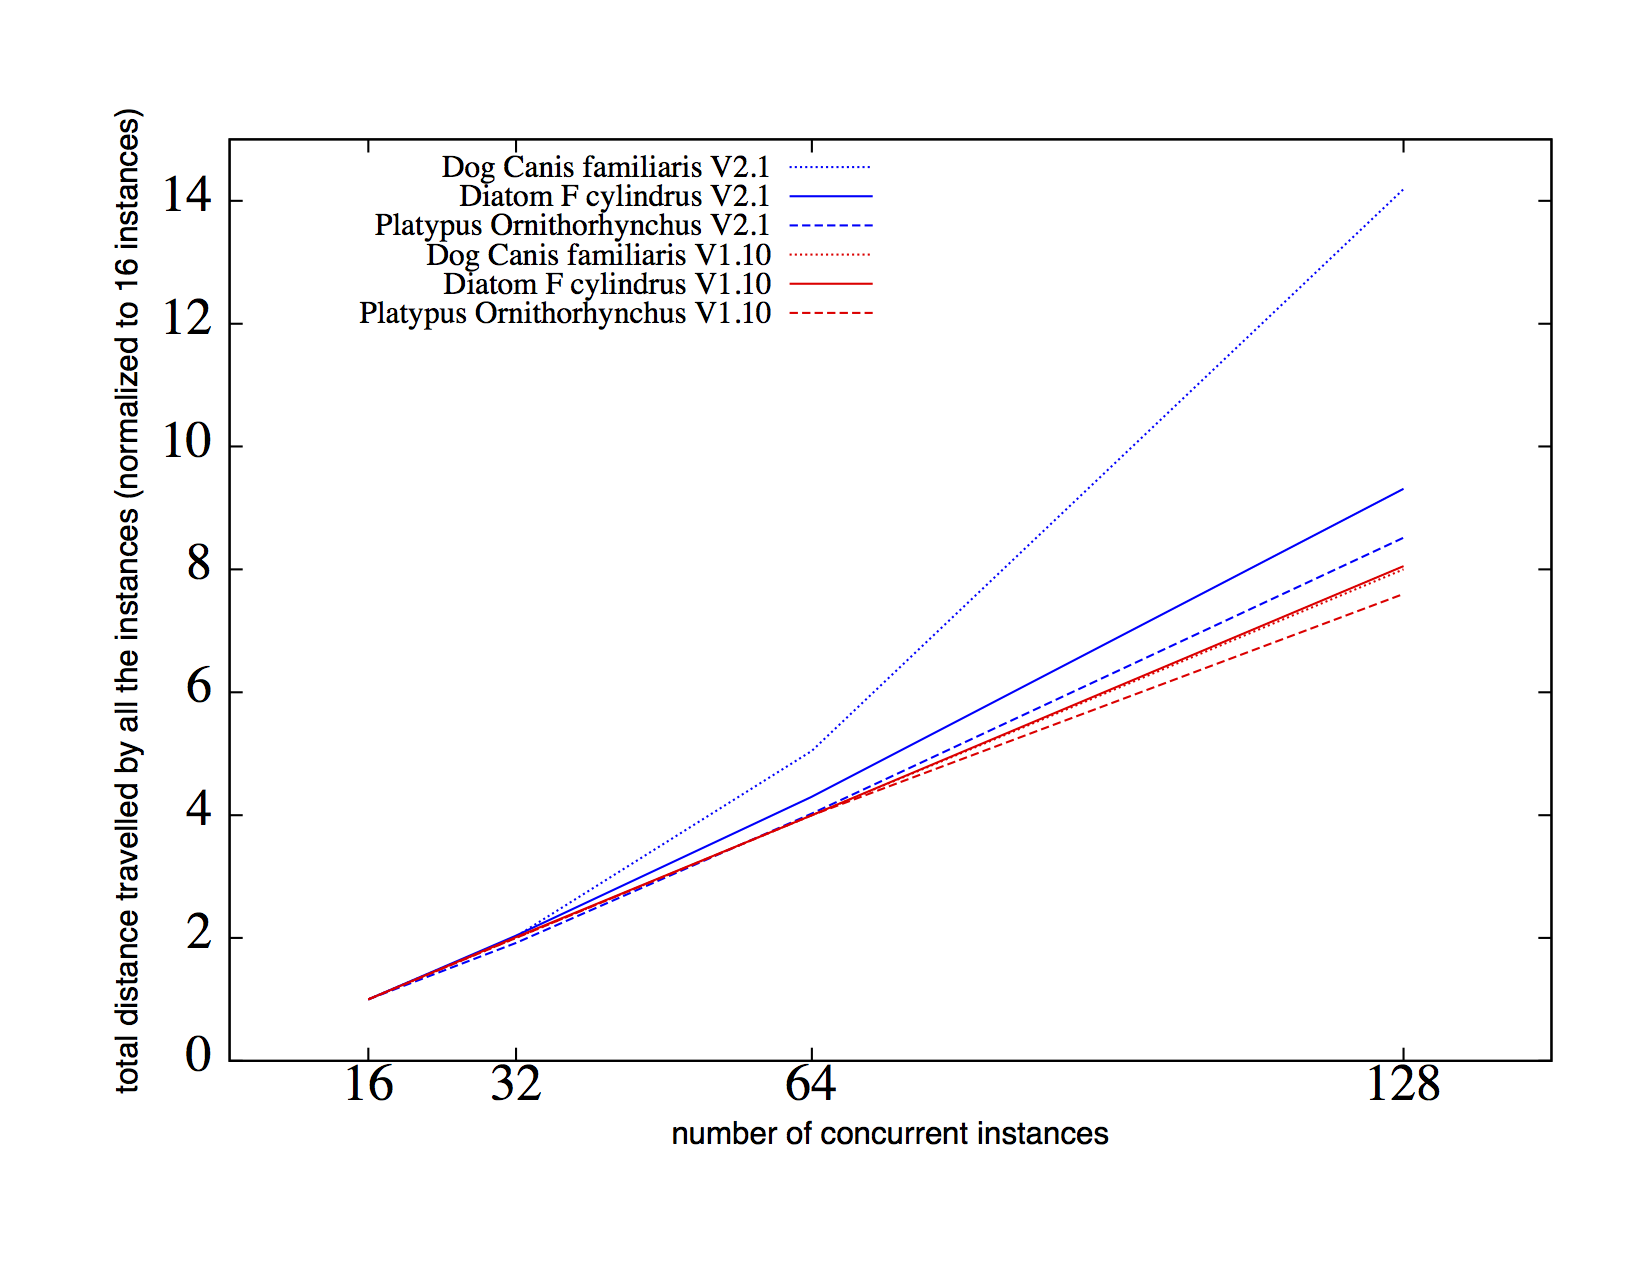
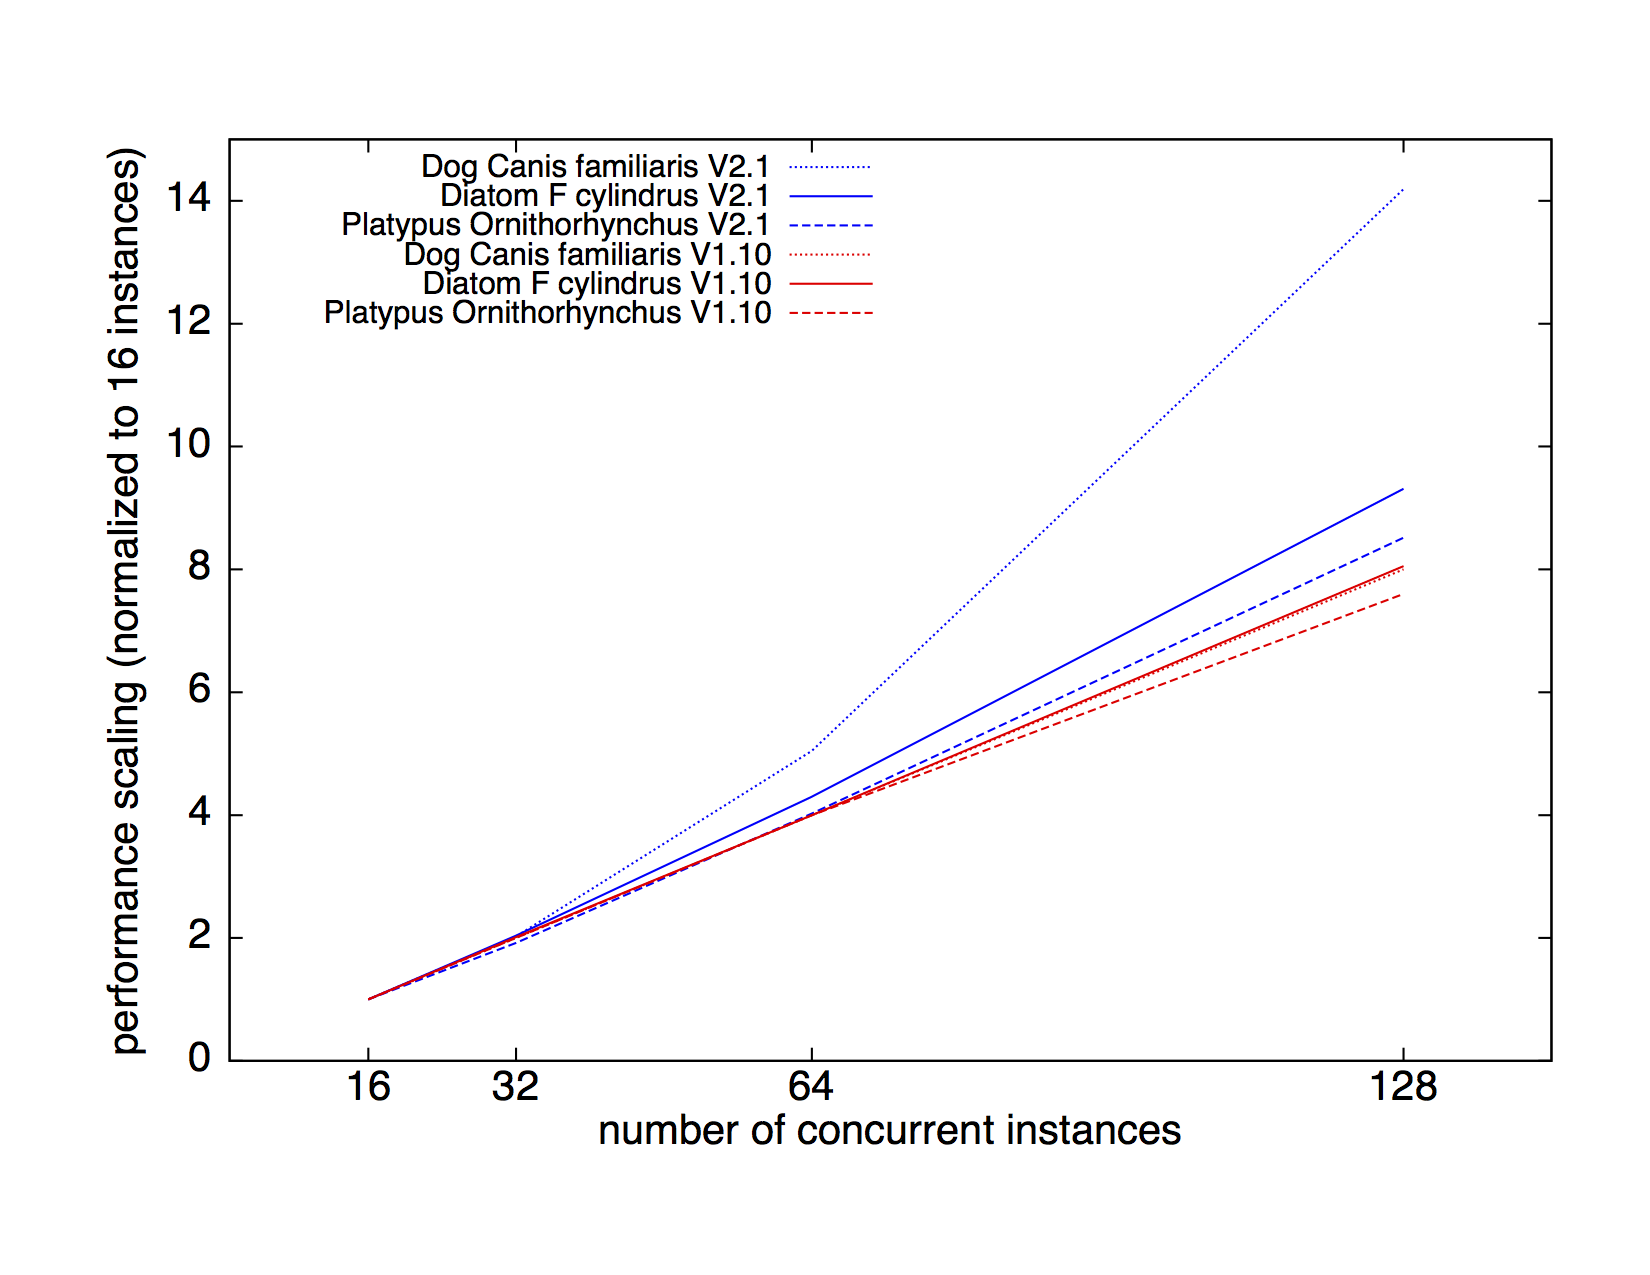
edits to figures

diff --git a/xsede13.tex b/xsede13.tex
@@ -466,7 +466,7 @@ We took three different organisms based on the size of their genome. We selected
 \begin{figure*} %[h!] % t=top, b=bottom, h=here, p=separate page
 \centering
 \includegraphics[width=0.78\textwidth]{figures/bj-scaling.png}
-\caption{After running 16, 32, 64 and 128 instances of mlRho concurrently using BigJob on Ranger and Stampede with versions 1.10 and 2.1, respectively, we see that amount of work done increases nearly linearly with the number instances of mlRho. The Y-Axis shows the total distance travelled by all the instances put together and normalized to 16 instances. The X-Axis shows the number of concurrent mlRho processes running. }
+\caption{After running 16, 32, 64 and 128 instances of mlRho concurrently using BigJob on Ranger and Stampede with versions 1.10 and 2.1, respectively, we see that amount of work done increases nearly linearly with the number instances of mlRho. The y-axis shows the total distance travelled by all the instances put together and normalized to 16 instances. The x-axis shows the number of concurrent mlRho processes running. }
 \label{fig:stampede-bench}
 \end{figure*}
 
@@ -483,12 +483,12 @@ We took three different organisms based on the size of their genome. We selected
 
 \begin{table*}
 \centering
-\begin{tabular}{|p{2.8cm}|     c| p{1.5cm} |c  |  c | 	  l  | l  | l  | l  |  } \hline
-Organism Type		& Size of profile in GB & \multicolumn{2}{|c|}{Distance travelled /min} &\multicolumn{2}{|c|}{SUs/distance}  \\ \hline
-	&   & V 1.10 & V 2.1 & V 1.10 & V 2.1  \\ \hline
-{\it F. cylindrus}  & 0.72 & 508 & 19.42 & 394 & new  \\ \hline
-{\it P. ornithorhynchus}  & 11 & 508 & 414 & 394 & new  \\ \hline
-{\it C. familiaris}  & 31 & 31 & 414 & 394 & new  \\
+\begin{tabular}{|c|  c   | p{1.3cm} |c  |     } \hline
+Organism Type		& Size of profile in GB & \multicolumn{2}{|c|}{Distance travelled /sec}  \\ \hline
+	&   & V 1.10 & V 2.1 \\ \hline
+{\it F. cylindrus}  & 0.72 & 0.0034 & 0.323 \\ \hline
+{\it P. ornithorhynchus}  & 11 & 0.00023 & 0.020 \\ \hline
+{\it C. familiaris}  & 31 & 0.0000810 & 0.005 \\
 \hline
 %Intel & 405 & 388 & 364 & 346\\
 %\hline
@@ -496,7 +496,7 @@ Organism Type		& Size of profile in GB & \multicolumn{2}{|c|}{Distance travelled
 %\hline
 
 \end{tabular}
-\caption{The table shoes mlRho runtimes on different machines with different compilers. The runtimes are in seconds. Compiling with the Intel compiler gave us a 10\% speedup compared to GNU/PGI compilers on Mason and Ranger. Future work could include building GSL with Intel compilers.   } 
+\caption{The table lists three organisms which were chosen to represent profiles of different size. The second column shows the size of the profile in gigabytes. The third column shows the distance travelled per second by V1.10 and V2.1 on one core on Ranger and Stampede, respectively. The rate of distance is a function of the size of the genome.  } 
 \label{table:cache_comp}
 \end{table*}
 
@@ -668,9 +668,19 @@ speedup of \ty{mlRho} while maintaining its minimal memory requirement.
 \begin{figure} %[h!] % t=top, b=bottom, h=here, p=separate page
 \centering
 \includegraphics[width=0.48\textwidth]{figures/mlrho-benchmarks.png}
-\caption{The graph show the different versions of mlRho benchmarked on a single core on Stampede. The Y-Axis shows the time steps per hour in logarithmic scale. Compared to version 1.10,  2.1 is nearly 50 times faster. }
+\caption{The graph shows the different versions of mlRho benchmarked on a single core on Stampede. The y-axis shows the time steps per hour in logarithmic scale. Compared to version 1.10,  2.1 is nearly 50 times faster. }
 \label{fig:stampede-bench}
 \end{figure}
+
+
+\begin{figure} %[h!] % t=top, b=bottom, h=here, p=separate page
+\centering
+\includegraphics[width=0.48\textwidth]{figures/mic-scaling.pdf}
+\caption{The graph compares the performance scaling behavior of mlRho on CPUs and MICs. Each mlRho process on a CPU was run on an individual core while multiple instances of mlRho were run on a single MIC. 488 mlRho instances on a single MIC gave us the same throughput as running 32 instances on 2 nodes of Stampede.  }
+\label{fig:mic-scaling}
+\end{figure}
+
+
 
 %\begin{table}
 %\centering
